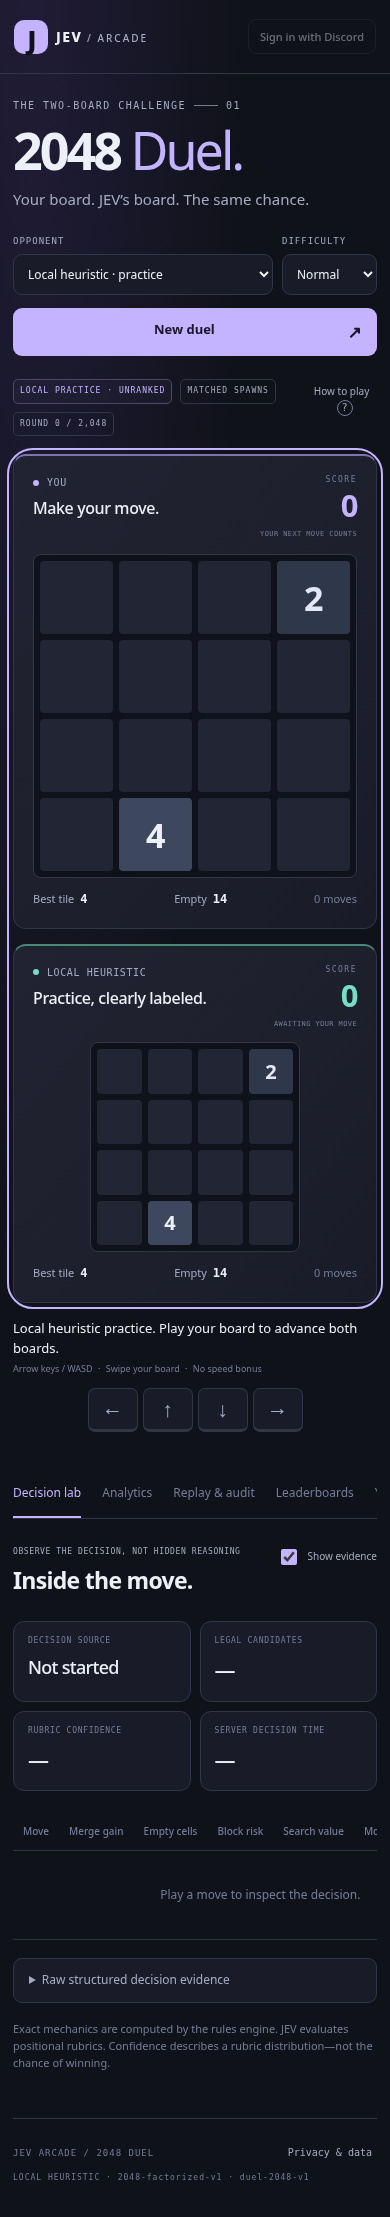
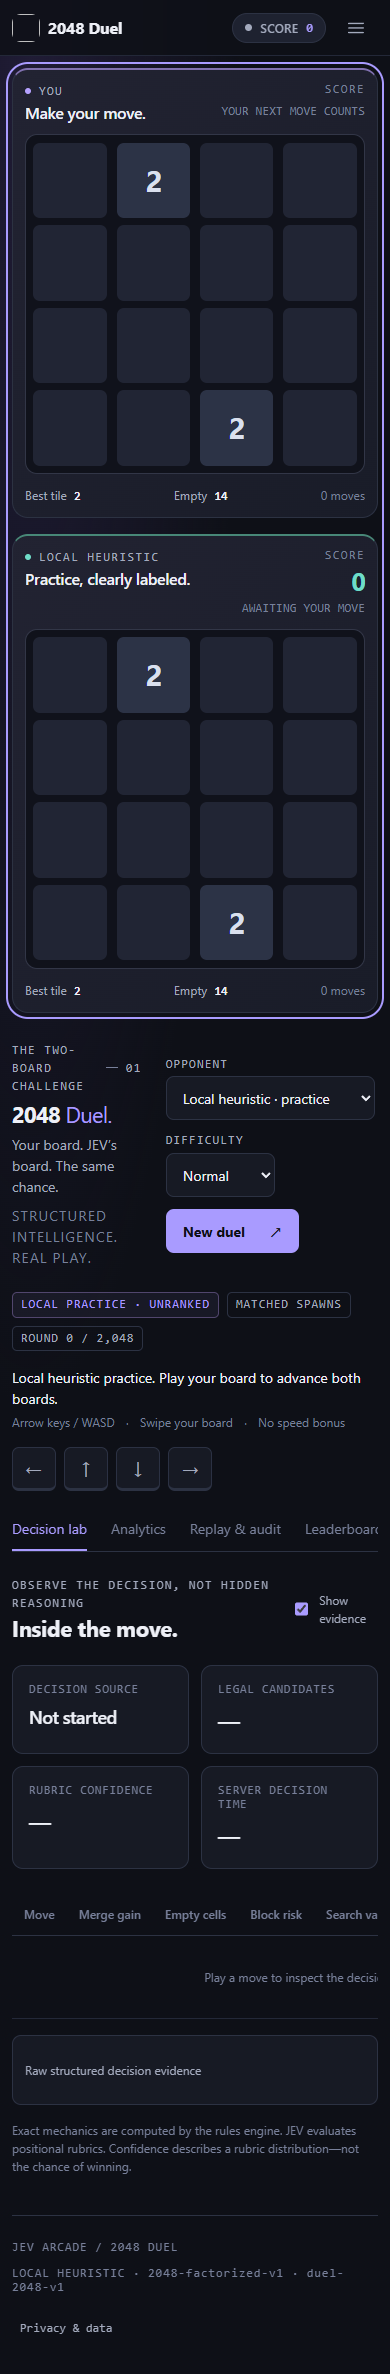
Fix shared header title truncation and nav landmark
2048 has no nav tabs, so this is the v3 kit refresh plus two Windows fixes in
the offline browser bridge and a hero row that overflowed at 360px.

diff --git a/public/brand/brand.css b/public/brand/brand.css
@@ -113,14 +113,17 @@ p{margin:0}
 .jv-mark{flex:none;width:28px;height:28px;border-radius:9px;display:block}
 .jv-wordmark{display:none;font-size:var(--fs-xs);letter-spacing:var(--track-caps);color:var(--muted);font-weight:700;white-space:nowrap}
 .jv-title{
-  min-width:0;font-size:var(--fs-md);font-weight:650;letter-spacing:-.01em;
+  /* A floor, so the title can ellipsise but never collapse to a single letter. */
+  min-width:3.5rem;font-size:var(--fs-md);font-weight:650;letter-spacing:-.01em;
   white-space:nowrap;overflow:hidden;text-overflow:ellipsis;
 }
 .jv-sep{display:none;width:1px;height:16px;background:var(--line);flex:none}
 
 /* The one status slot. Games put score, clock, turn or count here. */
 .jv-status{
-  flex:none;max-width:40vw;overflow:hidden;text-overflow:ellipsis;white-space:nowrap;
+  /* Shrinkable, so the chip gives up space before the game title does.
+     Measured: at 900px with five tabs the title was being crushed to 27px. */
+  flex:0 1 auto;min-width:0;max-width:40vw;overflow:hidden;text-overflow:ellipsis;white-space:nowrap;
   display:flex;align-items:center;gap:var(--s2);
   padding:var(--s1) var(--s3);min-height:30px;
   font-size:var(--fs-xs);font-weight:600;letter-spacing:.02em;
@@ -143,8 +146,12 @@ p{margin:0}
    border on a second element, one display:contents, two .jv-app grids); all of
    them either guess an offset or create a seam that has to match by eye.
    Moving the node makes it a static flex child, and the problem disappears. */
-#jv-controls{display:flex;flex-direction:column;gap:var(--s2);width:100%}
+#jv-controls{display:flex;flex-direction:column;gap:var(--s2);width:100%;min-width:0}
 #jv-controls .jv-sheet-item{width:100%}
+/* Nav tabs keep a real <nav> landmark. Flattening it into #jv-controls lost the
+   landmark and its label in the four tabbed games, so the wrapper stays and is
+   laid out instead of being removed. */
+#jv-controls .jv-nav{display:flex;flex-direction:column;gap:var(--s2);width:100%;min-width:0}
 .jv-sheet{
   position:fixed;inset:auto 0 0 0;z-index:60;
   transform:translateY(100%);transition:transform .22s ease,visibility .22s;
@@ -211,9 +218,15 @@ p{margin:0}
   #jv-controls{flex-direction:row;align-items:center;gap:var(--s2);width:auto;flex:none}
   #jv-controls .jv-sheet-item{width:auto;min-height:36px;padding:0 var(--s3);font-size:var(--fs-xs);white-space:nowrap}
   #jv-controls .jv-sheet-label{display:none}
+  #jv-controls .jv-nav{flex-direction:row;width:auto;gap:var(--s1)}
   /* A long tab strip scrolls rather than wrapping the header onto two rows
-     (mastermind carries five tabs plus brand, title and status chip). */
-  #jv-controls{max-width:min(60vw,44rem);overflow-x:auto;scrollbar-width:none}
+     (mastermind carries five tabs plus brand, title and status chip).
+     Cap measured against mastermind, the worst case: its controls need 730px
+     natural width. 60vw was too greedy -- at 900px it claimed 540px and crushed
+     the title to 27px. 50vw leaves the title whole across 900-1100, and 46rem
+     (736px) clears the 730px need outright on wide screens, so the strip stops
+     scrolling entirely once there is room for it. */
+  #jv-controls{max-width:min(50vw,46rem);overflow-x:auto;scrollbar-width:none}
   #jv-controls::-webkit-scrollbar{display:none}
   .jv-main{padding:var(--s5) var(--s5) calc(var(--s7) + var(--sa-b))}
 }

diff --git a/public/game.css b/public/game.css
@@ -2,16 +2,17 @@
 body{background:radial-gradient(ellipse at 8% 0%,#201c36 0,transparent 42%),var(--bg)}
 button,select,input{font:inherit}button,select{cursor:pointer}button,a,input,select,summary{touch-action:manipulation}button:disabled{opacity:.4;cursor:not-allowed}a{color:inherit;text-decoration:none}button{color:var(--text);border:0}button:focus-visible,a:focus-visible,select:focus-visible,input:focus-visible,summary:focus-visible,#play-region:focus-visible{outline:2px solid var(--accent);outline-offset:4px;box-shadow:none}h4{font-weight:550;margin-bottom:var(--s3)}p{color:var(--muted)}[hidden]{display:none!important}
 .jv-title{font-weight:700}.jv-status strong{color:var(--accent)}.jv-sheet-item{font-weight:600}
-.intro{display:flex;align-items:center;justify-content:space-between;gap:var(--s5);padding:var(--s3) 0 var(--s2)}
+.intro{display:flex;flex-wrap:wrap;align-items:center;justify-content:space-between;gap:var(--s5);padding:var(--s3) 0 var(--s2)}
+.intro>*{min-width:0}
 .eyebrow{font:var(--fs-xs)/1.5 var(--mono);letter-spacing:.12em;color:var(--muted);display:flex;align-items:center;gap:var(--s2)}
 .tiny-line{width:1.5rem;height:1px;background:var(--subtle);display:inline-block}
 h1{font-size:var(--fs-3xl);line-height:1.05;letter-spacing:-.03em;font-weight:750;margin:var(--s2) 0}h1 span{font-weight:400;color:var(--accent)}
 .intro p{font-size:var(--fs-sm)}
 .hero-tagline{font-size:var(--fs-xs);letter-spacing:var(--track-caps);color:var(--subtle);margin-top:var(--s2)}
 .match-controls{display:flex;gap:var(--s3);align-items:end;flex-wrap:wrap}
-.select-label{display:flex;flex-direction:column;gap:var(--s1);color:var(--muted);font:var(--fs-xs)/1.4 var(--mono);letter-spacing:.1em}
+.select-label{display:flex;min-width:0;flex-direction:column;gap:var(--s1);color:var(--muted);font:var(--fs-xs)/1.4 var(--mono);letter-spacing:.1em}
 .select-label select{font:var(--fs-sm)/1.4 var(--font);letter-spacing:0}
-select{background:var(--surface);border:1px solid var(--line);border-radius:var(--radius-sm);color:var(--text);padding:0 1.75rem 0 var(--s3);min-height:var(--tap);max-width:15rem}
+select{background:var(--surface);border:1px solid var(--line);border-radius:var(--radius-sm);color:var(--text);padding:0 1.75rem 0 var(--s3);min-height:var(--tap);max-width:min(15rem,100%)}
 .button{display:inline-flex;align-items:center;justify-content:center;gap:var(--s2);background:var(--raised);border:1px solid var(--line);border-radius:var(--radius-sm);min-height:var(--tap);padding:0 var(--s4);font-size:var(--fs-sm);font-weight:550;transition:background .15s,transform .15s}
 @media(hover:hover){.button:hover:not(:disabled){background:#2c3145}.button.primary:hover:not(:disabled){background:#d7cbff}.text-button:hover{color:var(--text)}.direction:hover{color:var(--accent);border-color:var(--accent)}}
 .button:active:not(:disabled){transform:translateY(1px);background:#2c3145}

diff --git a/tests/browser_bridge.py b/tests/browser_bridge.py
@@ -9,12 +9,12 @@ import re,json,urllib.request,urllib.error,http.cookiejar,base64,hashlib,uuid,os
 root=Path(__file__).resolve().parents[1]
 (root/'docs/screenshots').mkdir(parents=True,exist_ok=True)
 origin=os.environ.get('TEST_ORIGIN','http://127.0.0.1:8787')
-html=(root/'public/index.html').read_text()
+html=(root/'public/index.html').read_text(encoding='utf-8')
 html=re.sub(r'<link[^>]+>', '',html)
 html=re.sub(r'<script[^>]+></script>', '',html)
-html=html.replace('</head>','<style>'+(root/'public/brand/brand.css').read_text()+'</style></head>')
-html=html.replace('</head>','<style>'+(root/'public/game.css').read_text()+'</style></head>')
-modules={str(p.relative_to(root/'public')):p.read_text() for p in (root/'public').rglob('*.js')}
+html=html.replace('</head>','<style>'+(root/'public/brand/brand.css').read_text(encoding='utf-8')+'</style></head>')
+html=html.replace('</head>','<style>'+(root/'public/game.css').read_text(encoding='utf-8')+'</style></head>')
+modules={p.relative_to(root/'public').as_posix():p.read_text(encoding='utf-8') for p in (root/'public').rglob('*.js')}
 results={'harness':'Offline asset injection with real loopback API bridge; no browser network navigation','errors':[]}
 with sync_playwright() as p:
     browser=p.chromium.launch(executable_path=os.environ.get('CHROMIUM_PATH') or shutil.which('chromium'),headless=True,args=['--no-sandbox'])
